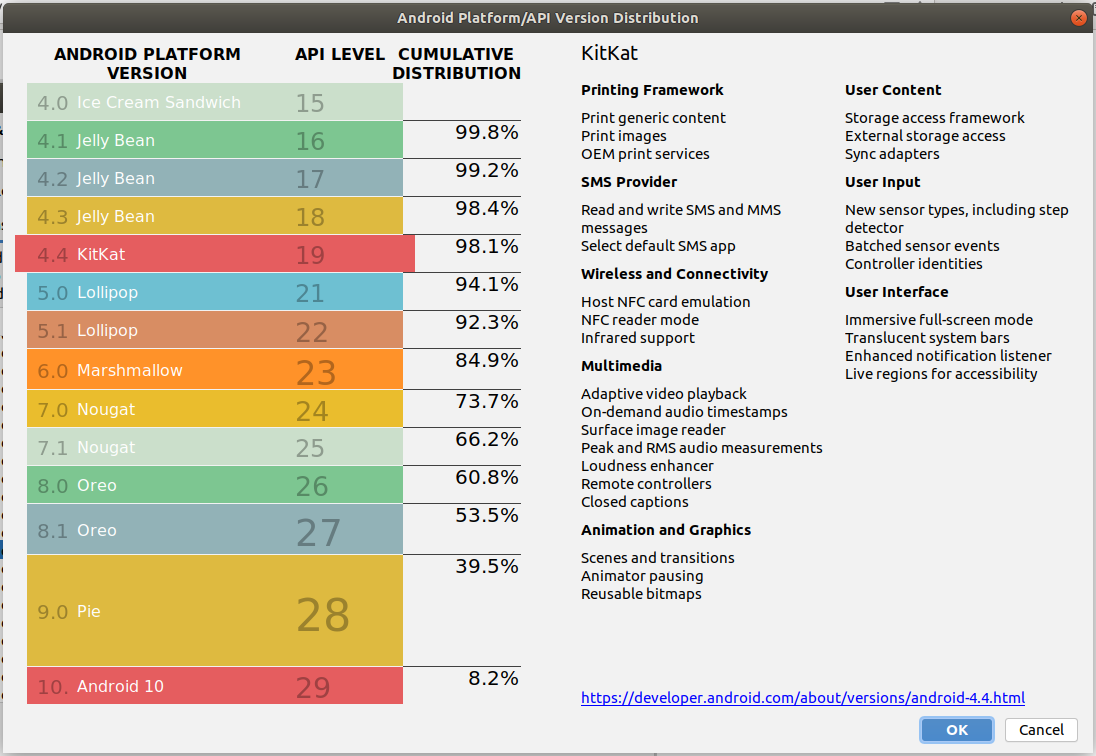
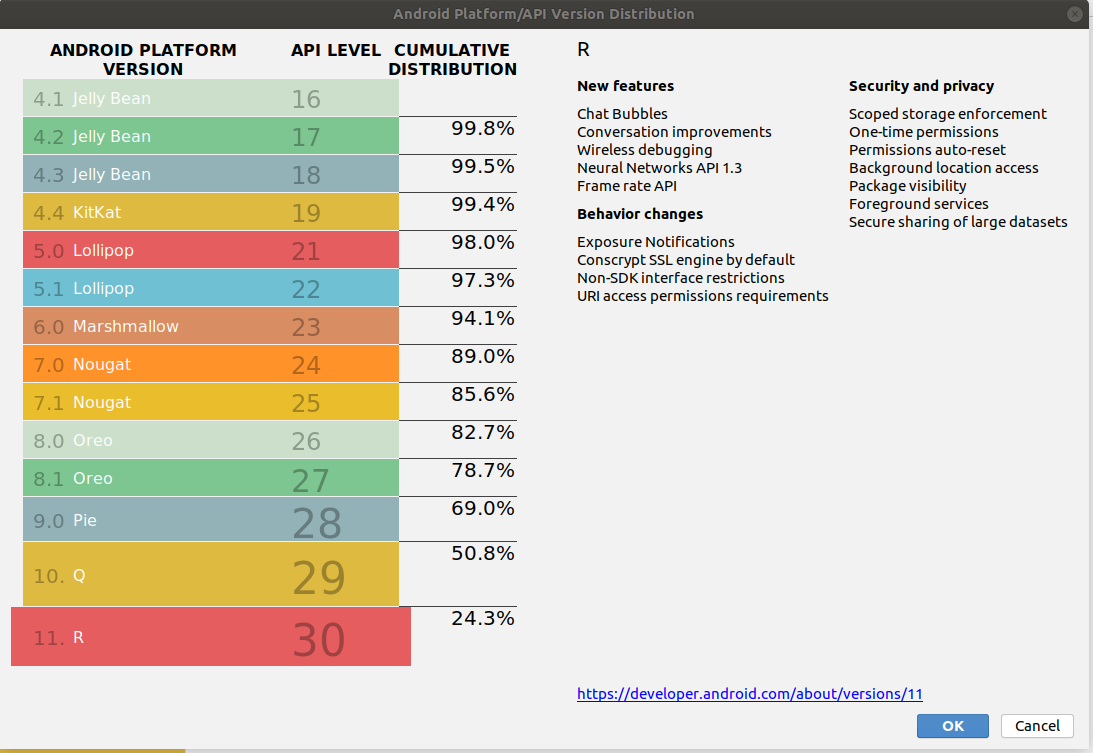
Updates COM527 week 2

Changed region(s): [[0.0, 0.0, 1.0, 1.0], [0.4044, 0.8858, 0.4666, 0.9163], [0.4044, 0.7942, 0.4666, 0.8247]]

diff --git a/COM527/topic2.html b/COM527/topic2.html
@@ -30,7 +30,7 @@ At this point it is worth elaborating on the various <em>versions of Android</em
 <br />
 <img src="../images/android_versions.png" alt="Percentages of devices running different versions" />
 <br />
-The most recent version deployed on actual mobile devices is 11, however, as can be seen above, many devices are running 6.0 (Marshmallow), 7.0 and 7.1 (Nougat), 8.x (Oreo), 9 (Pie) and 10.  A few devices are still running Lollipop (5.x) and around 6% version 4.4 (KitKat) or lower; therefore, targeting 4.4 upwards, or 5.0 upwards, is a sensible approach. The <em>Jetpack</em> support loibrary (which will be covered later) makes this easier.</p>
+The most recent version deployed on actual mobile devices is 12, however, as can be seen above, few devices have Android 12 at the present time (this chart is from Android Studio and may be a little out-of-date). Many devices are running 7.1 (Nougat), 8.x (Oreo), 9 (Pie), 10 and 11.  A few devices are still running Marshmallow (6.x) and around 3% version 5.1 (Lollipop) or lower; therefore, targeting 6.0 upwards, or even 5.0 upwards is a sensible approach. The <em>Jetpack</em> support loibrary (which will be covered later) makes this easier.</p>
 <p>Another concept that you need to understand is the <em>API level</em>. The <em>Android API</em> is the set of classes which are used to program Android apps with. The API level denotes revisions to the Android API, in a sequence of positive integers starting from 1. Thus, the numbers used for the API levels are not the same as those used for the Android versions, but each API level corresponds to a particular version. The idea is that each time Android itself is updated, the API is updated too. For example: 
 <ul>
     <li>API level 15 corresponds to Android 4.0.3; </li>
@@ -39,6 +39,7 @@ The most recent version deployed on actual mobile devices is 11, however, as can
     <li>API level 26 corresponds to Android 8.0;</li>
     <li>API level 28 corresponds to Android 9</li>
     <li>API level 30 corresponds to Android 11</li>
+    <li>API level 31 corresponds to Android 12</li>
     </ul>
 When developing an Android app, you have to specify the minimum API level on
 which your app will run. Thus an app with minimum API level 19, for example,
@@ -49,9 +50,7 @@ API level 19 as a minimum you will be targeting the majority of devices.
 <h2>Runtime Environment</h2>
 <p>With standard Kotlin or Java, you compile to bytecode which is then run using the Java Virtual Machine (JVM). Android is similar but rather than using the standard JVM, it uses its own virtual machine and corresponding bytecode format, producing executable files known as DEX files. So "regular" Java bytecode will not run on Android and Android apps will not run on a regular JVM.
 </p>
-<p><em>Dalvik</em> was the original virtual machine, which versions of Android up to 4.4 used. 
-With Android 5.0, a new virtual machine (<em>ART : Android Runtime</em>)
-(see <a href="https://source.android.com/devices/tech/dalvik/configure.html">here</a>) is used instead.
+<p><em>Dalvik</em> was the original virtual machine, which versions of Android up to 4.4 used.  With Android 5.0, a new virtual machine (<em>ART : Android Runtime</em>) (see <a href="https://source.android.com/devices/tech/dalvik/configure.html">here</a>) is used instead.
 See <a href="https://source.android.com/devices/tech/dalvik/">here</a> for more details on Android
 virtual machines.</p>
 <h2>General nature of Android development</h2>
@@ -81,7 +80,7 @@ Java Development Kit. As well as the Kotlin standard library, many standard Java
 
 <h4>Creating a project</h4>
 <p>
-Select "Create New roject". You will then see this screen.  This allows you to create a new project.  You will then see a screen like this:
+Select "Create New project". You will then see this screen.  This allows you to create a new project.  You will then see a screen like this:
 <br />
 <img src="../images/studio2.png" alt="Project details" />
 <br />
